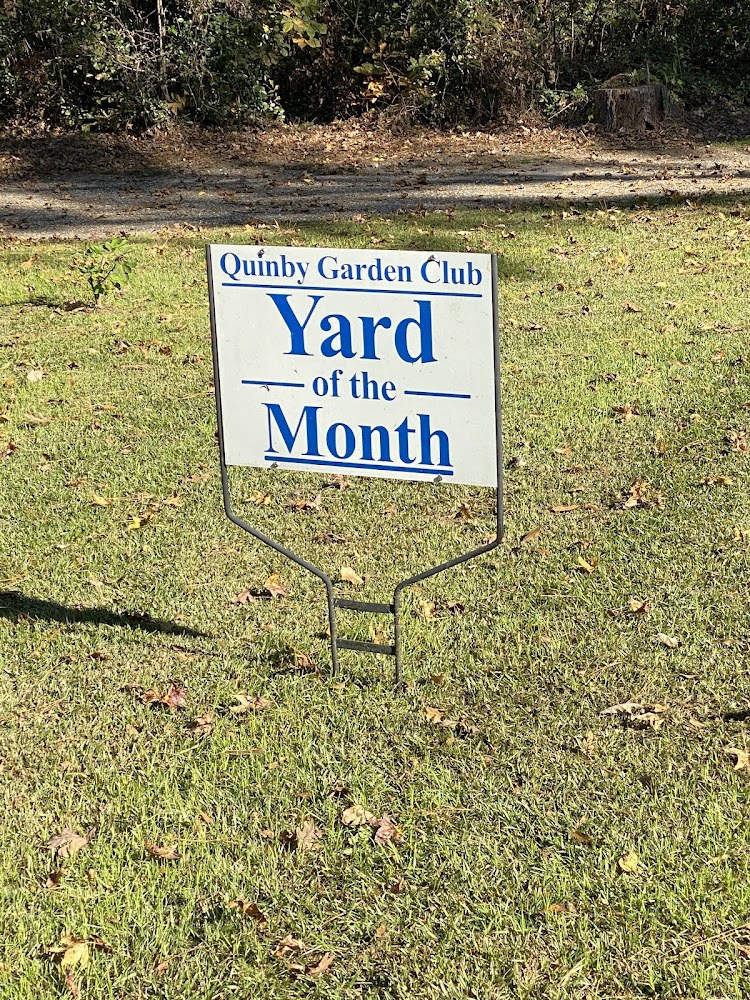
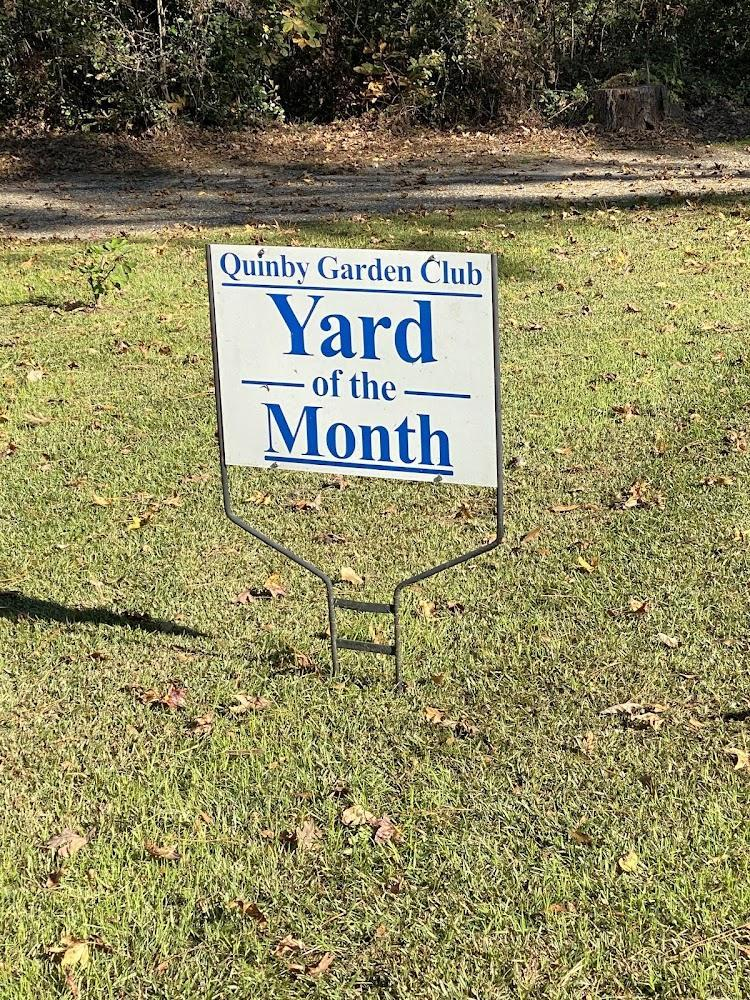
Preview: green-stripes-lawn-care-more

diff --git a/green-stripes-lawn-care-more/index.html b/green-stripes-lawn-care-more/index.html
@@ -108,10 +108,23 @@ footer .wrap{display:flex;justify-content:space-between;gap:20px;flex-wrap:wrap;
 .bar a.alt{background:var(--card);color:var(--ink);border:1px solid var(--line)}
 @media (max-width:900px){.hgrid{grid-template-columns:1fr}.gal{grid-template-columns:1fr 1fr;grid-auto-rows:150px}nav{display:none}.grid,.steps{grid-template-columns:1fr 1fr}.split,.quote{grid-template-columns:1fr}.trust .wrap{grid-template-columns:1fr 1fr}.trust div:nth-child(3){border-left:0}.trust div:nth-child(n+3){border-top:1px solid var(--line)}}
 @media (max-width:600px){.grid,.steps{grid-template-columns:1fr}.hero .wrap{padding:56px 20px 64px}section{padding:64px 0}.quote{padding:30px 22px;border-radius:20px}.call{display:none}.bar{display:flex}.logo small{display:none}}
+.pv a{color:#f5b83d;font-weight:700;text-decoration:none;margin-left:6px}
+.claim{background:var(--ink);color:#f2efe8;padding:72px 0}
+.claim h2{color:#fff;margin:10px 0 12px}.claim p{color:#c9c5bc;max-width:52ch;margin:0}
+.cl{display:grid;grid-template-columns:1.1fr 1fr;gap:40px;align-items:center}
+.t3{display:grid;grid-template-columns:repeat(3,1fr);gap:10px;margin-top:26px}
+.t3 div{border:1px solid rgba(255,255,255,.16);border-radius:14px;padding:14px}
+.t3 b{display:block;font-size:24px;color:#fff}.t3 span{font-size:13px;color:#c9c5bc;line-height:1.35;display:block;margin-top:4px}
+.clb{display:grid;gap:10px}
+.clb a{display:block;text-align:center;padding:16px;border-radius:12px;font-weight:700;text-decoration:none;border:1px solid rgba(255,255,255,.25);color:#fff}
+.clb a.go{background:#f5b83d;color:#14140f;border-color:#f5b83d}
+.clb small{color:#9e9a91;text-align:center;font-size:13px}
+@media (max-width:900px){.cl{grid-template-columns:1fr}.t3{grid-template-columns:1fr 1fr 1fr}}
+@media (max-width:600px){.claim{padding:56px 0 110px}.t3 b{font-size:20px}}
 </style>
 </head>
 <body>
-<div class="pv"><b>Free preview</b> built for Green stripes lawn care &amp; more by Cole Ormont · Not live yet</div>
+<div class="pv"><b>Free preview</b> built for Green stripes lawn care &amp; more by Cole Ormont · Not live yet<a href="#claim">Make it yours ↓</a></div>
 <header><div class="wrap">
 <a class="logo" href="#top"><span class="mark">GS</span><span><b>Green stripes lawn care &amp; more</b><small>Lawn care · Florence, SC</small></span></a>
 <nav><a href="#services">Services</a><a href="#how">How it works</a><a href="#area">Service area</a><a href="#faq">FAQ</a></nav>
@@ -174,6 +187,12 @@ footer .wrap{display:flex;justify-content:space-between;gap:20px;flex-wrap:wrap;
 </form>
 </div></div></section>
 
+<section id="claim" class="claim"><div class="wrap"><div class="cl">
+<div><div class="eyebrow" style="color:#f5b83d">For Green stripes lawn care &amp; more</div><h2>Like it? It can be live this week.</h2>
+<p>This is a free preview built for your business. Keep it as is or tell Cole what to change. Your domain, your site, you own it.</p>
+<div class="t3"><div><b>$399</b><span>This page, live on your own domain</span></div><div><b>$650</b><span>Full site with your photos and gallery</span></div><div><b>$850+</b><span>Everything plus online booking</span></div></div></div>
+<div class="clb"><a class="go" href="sms:+15088077554?&body=Hi%20Cole%2C%20I%20saw%20the%20preview%20you%20made%20for%20Green%20stripes%20lawn%20care%20%26%20more.%20I%27m%20interested.">Text Cole about this site</a><a href="tel:+15088077554">Call Cole · (508) 807-7554</a><small>Half to start, half when it's live. No contracts.</small></div>
+</div></div></section>
 <footer><div class="wrap"><span><b style="color:var(--ink)">Green stripes lawn care &amp; more</b> · Lawn care · Florence, SC</span><span><a href="tel:+18436171913">843-617-1913</a></span></div></footer>
 <div class="bar"><a href="tel:+18436171913">Call</a><a class="alt" href="#quote">Free quote</a></div>
 <script>
